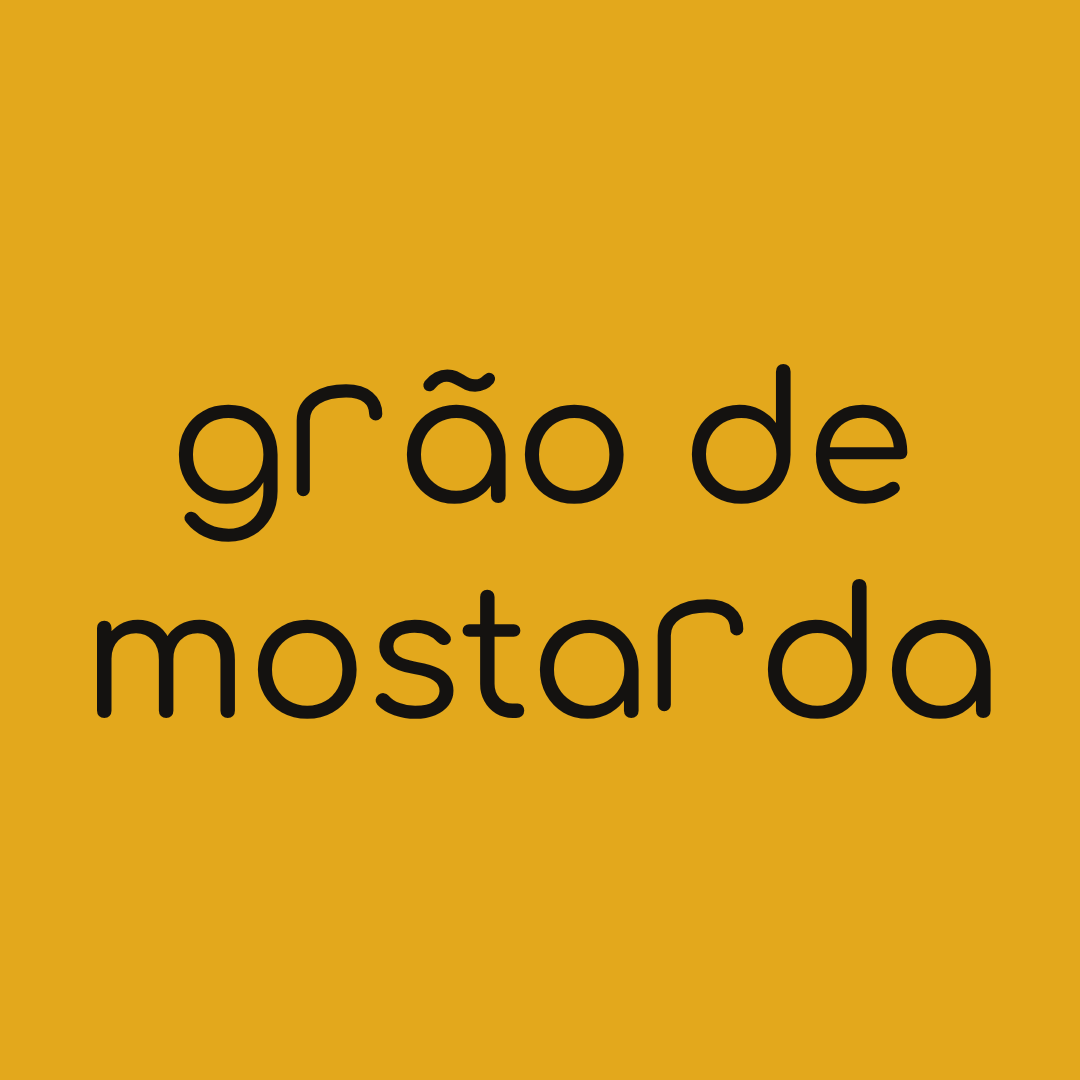
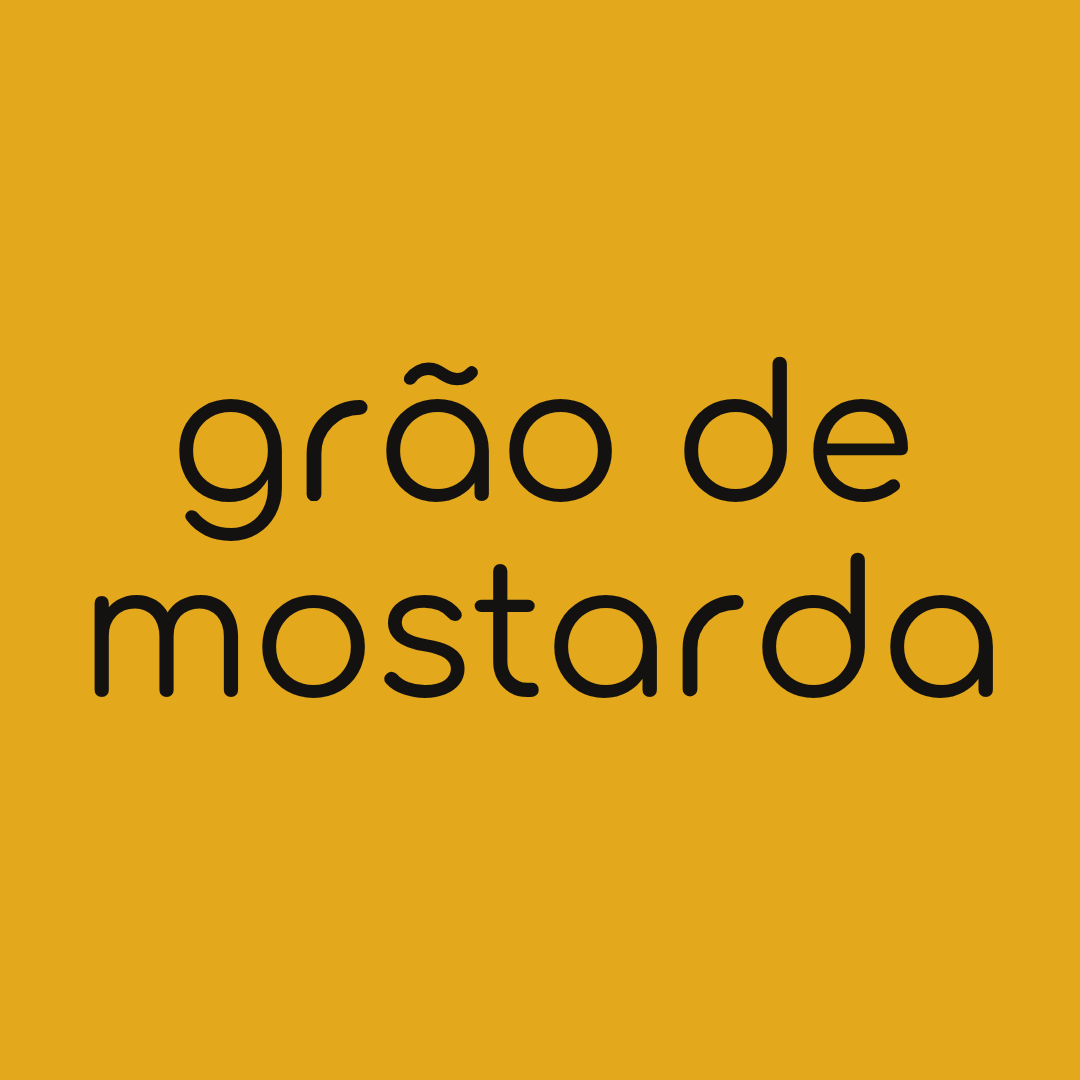
Ajusta o glifo 'r' para o mesmo tamanho e peso das demais letras
O 'r' desenhado estava maior e mais largo que as letras vizinhas. Agora ele
é construído a partir das métricas medidas da Comfortaa (altura-x, traço,
avanço e espaço lateral), o que iguala altura, espessura e largura.

Claude-Session: https://claude.ai/code/session_01KpoTw18eJvkaKN7ezjmvTQ

Changed region(s): [[0.0611, 0.5194, 0.9167, 0.6722], [0.1528, 0.3361, 0.5806, 0.4889], [0.6111, 0.3361, 0.8556, 0.4583]]

diff --git a/src/wordmark.js b/src/wordmark.js
@@ -1,20 +1,39 @@
-// Monta o wordmark: texto em Comfortaa + "r" desenhado à mão (SVG) no estilo
-// do novo logotipo do Instagram. Usado dentro da página que o render.mjs abre.
-const R_PATHS = {
-  // "r" de arco geométrico — legível, mantém a leitura de "grão de mostarda"
-  arco: 'M8 92 V50 C8 38 20 32 34 32 C46 32 52 38 52 46',
-  // "r" espelhado (o meme do "Instagzam") — piada da trend
-  espelhado: 'M6 34 H46 C52 34 54 40 50 46 L14 92 H54',
+// Monta o wordmark: texto em Comfortaa + o "r" desenhado à mão, no espírito
+// do novo logotipo do Instagram.
+//
+// O glifo é construído a partir das métricas reais da Comfortaa (medidas com
+// _metrics.mjs, em milésimos de em, peso 400) para que o "r" tenha a mesma
+// altura-x, a mesma espessura de traço e a mesma largura das letras vizinhas:
+const M = {
+  avanco: 460,   // largura de avanço do "r" da fonte
+  alturaX: 550,  // altura-x
+  lateral: 90,   // espaço lateral esquerdo até o traço
+  traco: 80,     // espessura do traço
 };
 
-function glyphR(style, stroke) {
-  return `<svg class="r" viewBox="0 -8 62 108" aria-hidden="true"><path d="${R_PATHS[style]}" `
-       + `fill="none" stroke="currentColor" stroke-width="${stroke}" `
-       + `stroke-linecap="round" stroke-linejoin="round"/></svg>`;
+const meio = M.traco / 2;
+const xStem = M.lateral + meio;              // eixo do traço vertical
+const yTopo = meio;                          // topo da altura-x
+const yBase = M.alturaX - meio;              // linha de base
+const raio = 250;                            // curva do ombro
+const xArm = xStem + raio;                   // fim do braço
+
+const R_PATHS = {
+  // "r" geométrico: traço vertical + ombro em quarto de círculo, todo dentro
+  // da altura-x — mesma presença de um "n" ou "m".
+  arco: `M${xStem} ${yBase} V${yTopo + raio} A${raio} ${raio} 0 0 1 ${xArm} ${yTopo}`,
+  // "r" espelhado: a piada do "Instagzam", desenhado na mesma caixa.
+  espelhado: `M${xArm} ${yTopo} H${xStem} L${xArm} ${yBase} H${xStem}`,
+};
+
+function glyphR(style) {
+  return `<svg class="r" viewBox="0 0 ${M.avanco} ${M.alturaX}" aria-hidden="true">`
+       + `<path d="${R_PATHS[style]}" fill="none" stroke="currentColor" `
+       + `stroke-width="${M.traco}" stroke-linecap="round" stroke-linejoin="round"/></svg>`;
 }
 
 // Troca todo "r" do texto pelo glifo desenhado.
-function wordmark(text, style, stroke = 8) {
+function wordmark(text, style) {
   if (style === 'none') return text;
-  return text.split('r').join(glyphR(style, stroke));
+  return text.split('r').join(glyphR(style));
 }

diff --git a/src/page.html b/src/page.html
@@ -11,9 +11,10 @@
   }
   #stage { position: relative; display: flex; flex-direction: column;
            align-items: center; justify-content: center; text-align: center; }
-  .line { white-space: nowrap; line-height: 1.06; font-variation-settings: 'wght' 460;
+  /* peso 400: é nele que as métricas do "r" desenhado foram medidas */
+  .line { white-space: nowrap; line-height: 1.06; font-variation-settings: 'wght' 400;
           letter-spacing: -0.012em; }
-  svg.r { height: 1em; width: .62em; vertical-align: baseline; overflow: visible; }
+  svg.r { width: .460em; height: .550em; vertical-align: baseline; }
   #legenda { position: absolute; left: 0; right: 0; font-variation-settings: 'wght' 400;
              letter-spacing: 0; opacity: .55; }
 </style>
@@ -29,7 +30,7 @@
 
   const stage = document.getElementById('stage');
   stage.innerHTML = cfg.lines
-    .map(t => `<div class="line">${wordmark(t, cfg.r, cfg.stroke || 8)}</div>`)
+    .map(t => `<div class="line">${wordmark(t, cfg.r)}</div>`)
     .join('');
 
   // Escala o bloco de texto até ocupar a largura útil pedida (cfg.fill).

diff --git a/README.md b/README.md
@@ -37,6 +37,12 @@ Hashtags: #instagram #novoinstagram #branding #design #identidadevisual
 - O `r` de cada palavra é **desenhado à mão em SVG** (`src/wordmark.js`),
   porque é justamente o `r` esquisito que dá a cara da trend. São dois
   desenhos: `arco` (legível) e `espelhado` (o meme).
+- O desenho do `r` sai das **métricas reais da Comfortaa** (altura-x,
+  espessura de traço, largura de avanço e espaço lateral), medidas por
+  `src/metrics.mjs`. Assim ele tem exatamente o mesmo tamanho e o mesmo peso
+  das letras vizinhas — nada de `r` maior ou mais gordo que o resto. Se
+  mudar o peso do texto em `src/page.html`, rode `node src/metrics.mjs` de
+  novo e atualize as constantes `M` em `src/wordmark.js`.
 - A fonte real do Instagram é proprietária e não foi usada nem imitada
   glifo a glifo: isso aqui é uma homenagem/paródia feita com tipografia
   livre, que é o caminho seguro pra uma agência publicar.
